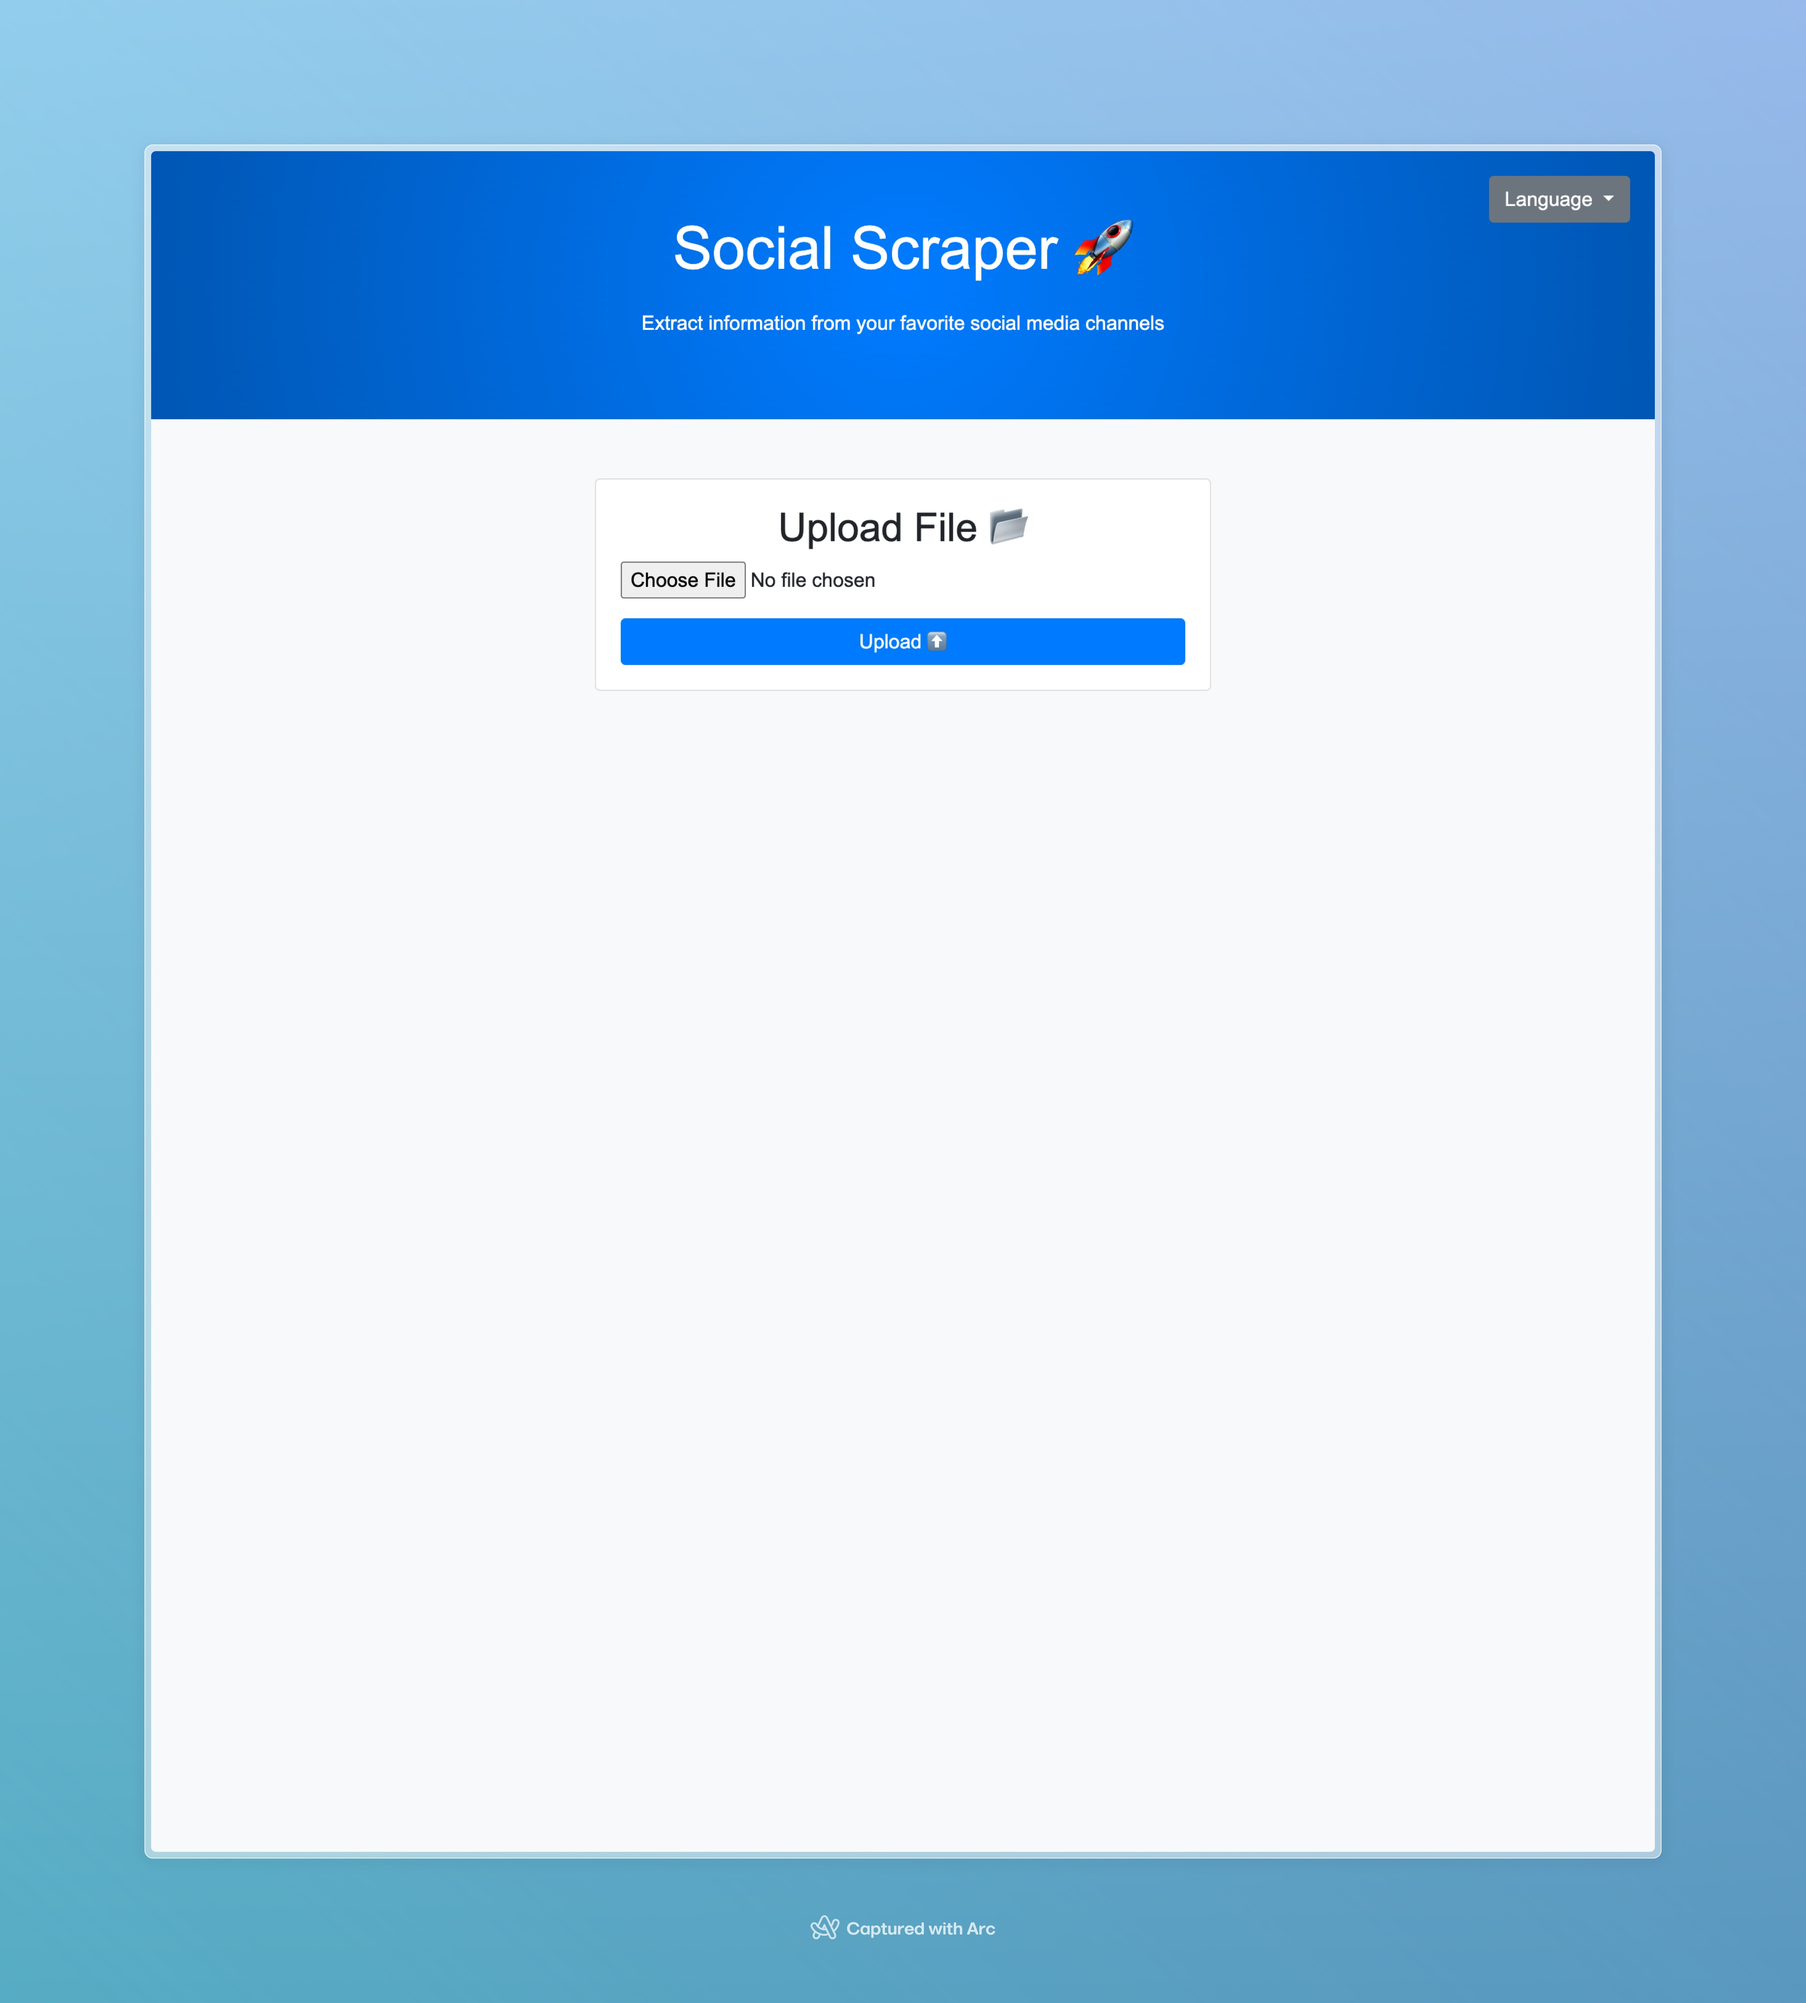
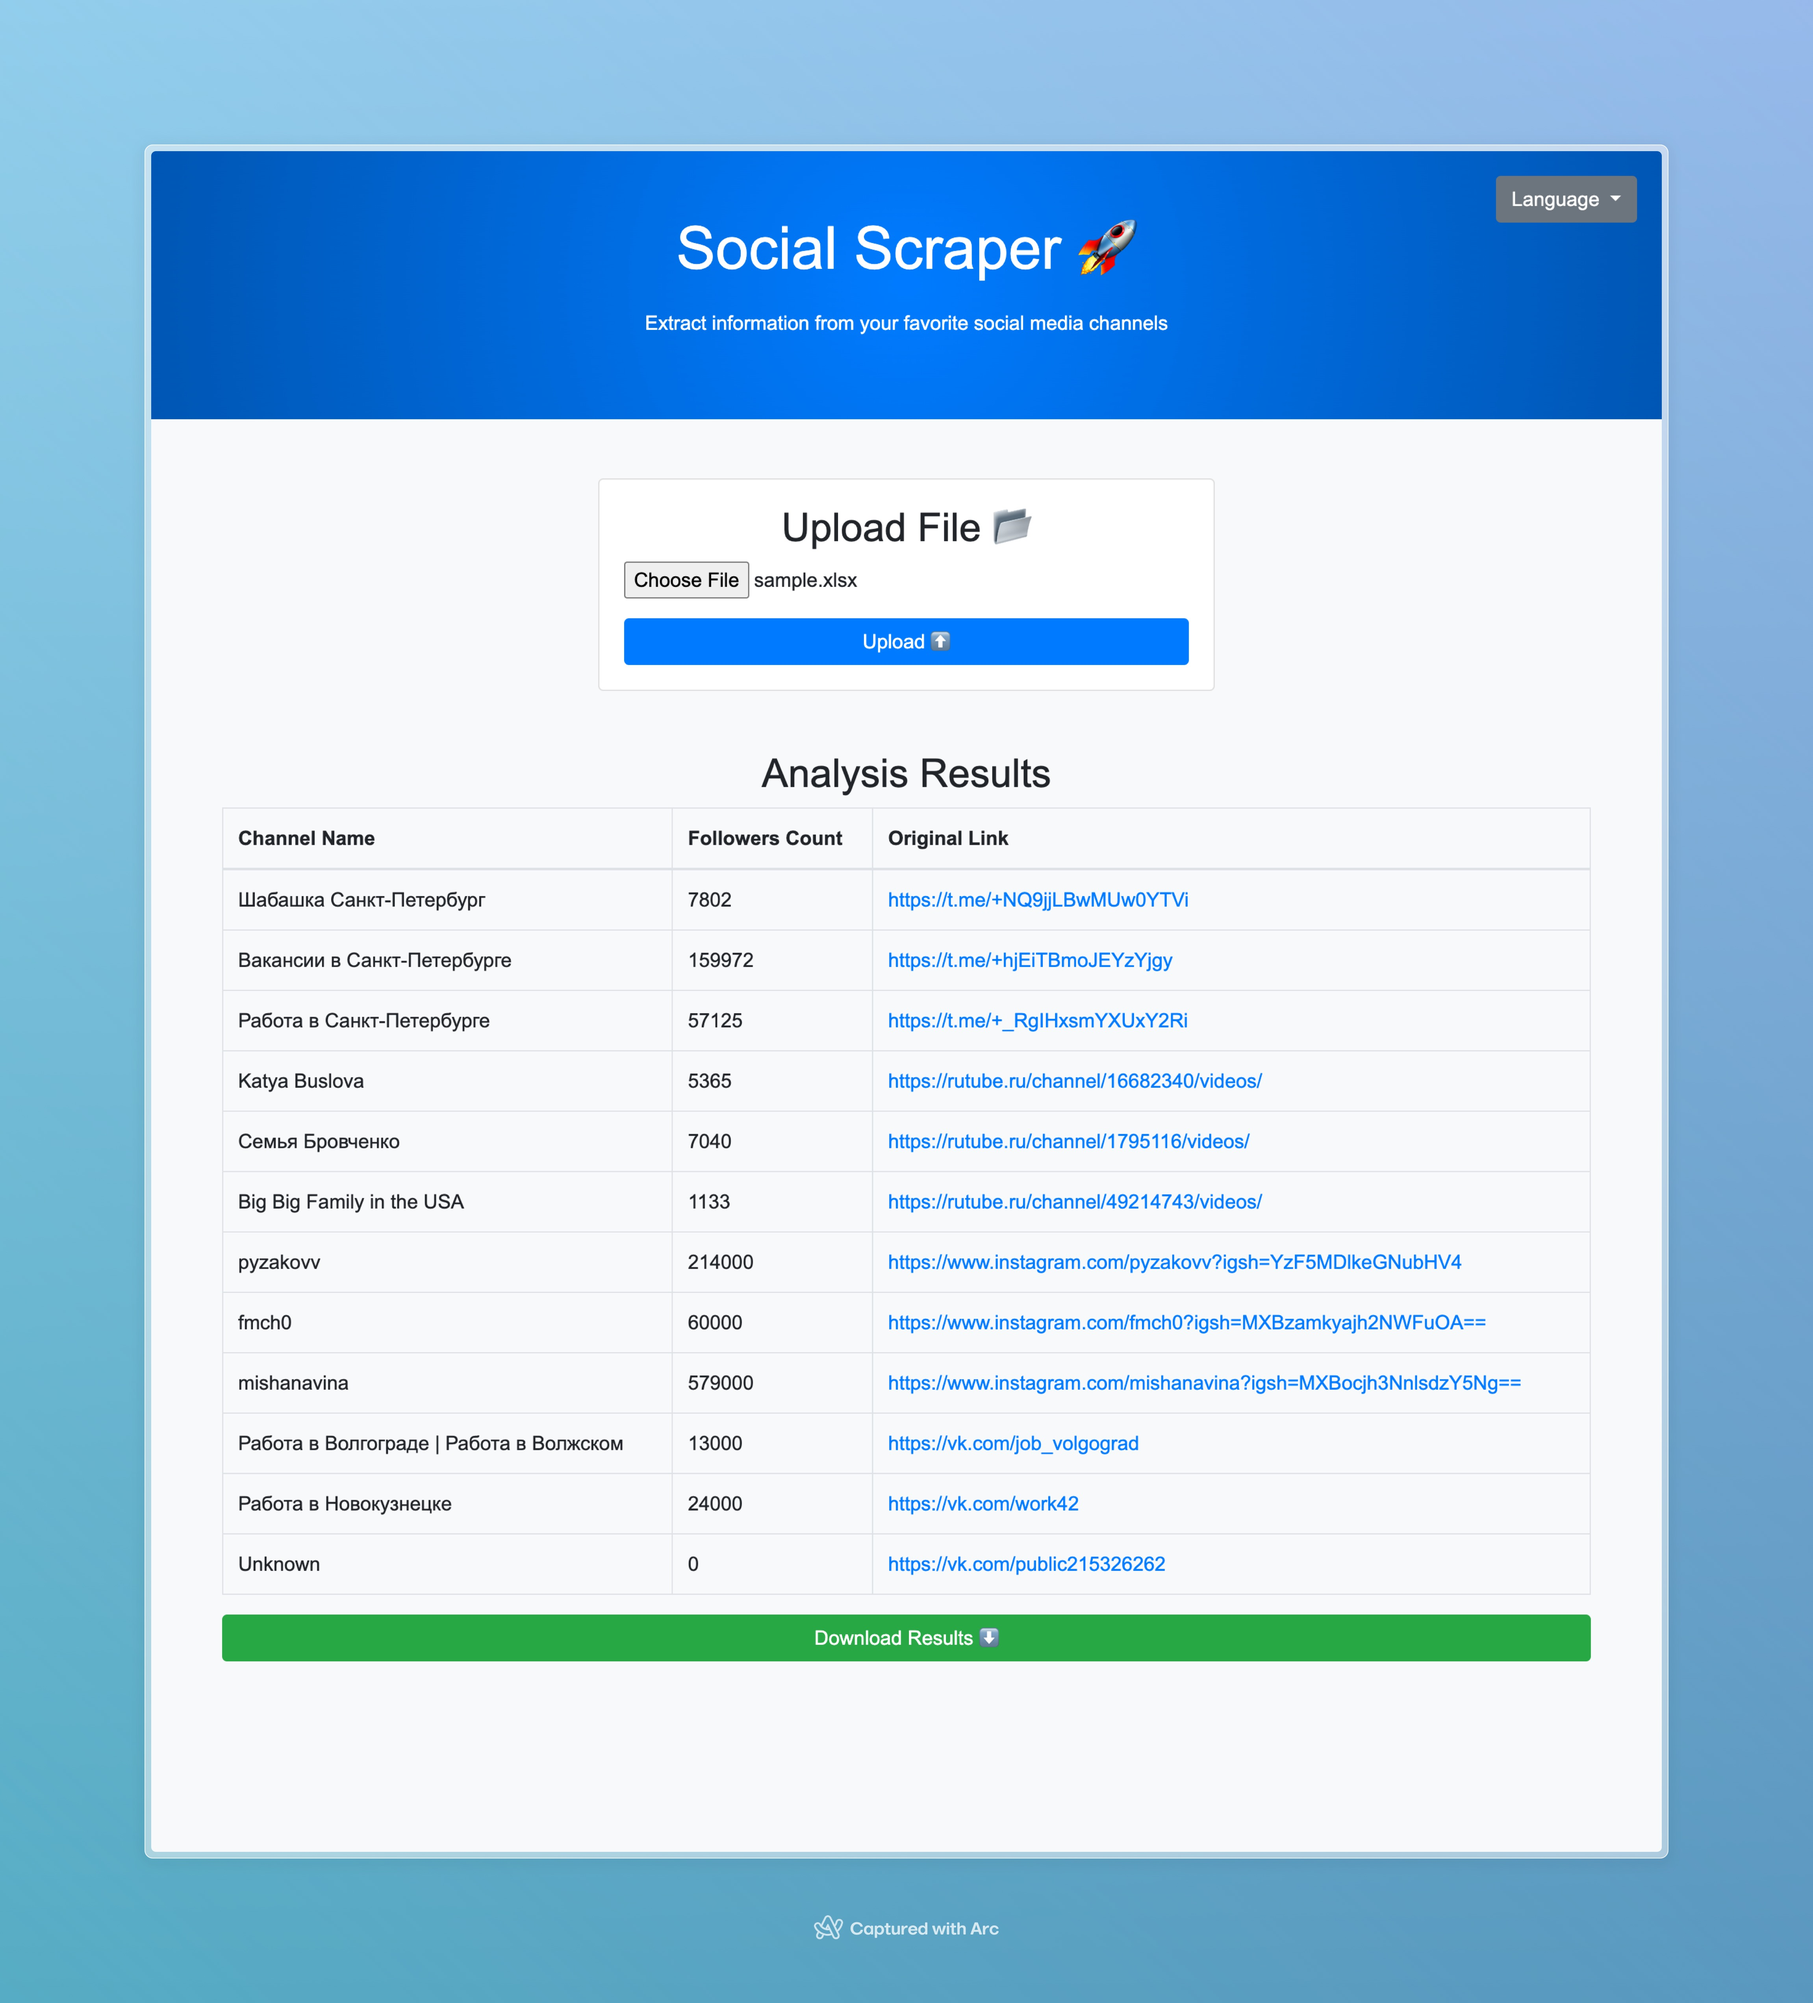
update for show results

diff --git a/public/index.html b/public/index.html
@@ -82,6 +82,24 @@
 		</div>
 	</div>
 
+	<!-- Add this section to display the results -->
+	<div class="container mt-5" id="resultsContainer" style="display: none;">
+		<h2 class="text-center" id="resultsTitle">Analysis Results</h2>
+		<table class="table table-bordered" id="resultsTable">
+			<thead>
+				<tr>
+					<th>Channel Name</th>
+					<th>Followers Count</th>
+					<th>Original Link</th>
+				</tr>
+			</thead>
+			<tbody id="resultsTableBody">
+				<!-- Results will be appended here -->
+			</tbody>
+		</table>
+		<button class="btn btn-success btn-block" id="downloadButton">Download Results ⬇</button>
+	</div>
+
 	<script>
 		const translations = {
 			en: {
@@ -90,7 +108,10 @@
 				uploadTitle: "Upload File 📂",
 				uploadButton: "Upload ⬆",
 				loaderText: "Processing your file... ⏳",
-				languageLabel: "Language"
+				languageLabel: "Language",
+				resultsTitle: "Analysis Results",
+				downloadButton: "Download Results ⬇",
+				headers: ["Channel Name", "Followers Count", "Original Link"]
 			},
 			es: {
 				title: "Extractor Social 🚀",
@@ -98,7 +119,10 @@
 				uploadTitle: "Subir Archivo 📂",
 				uploadButton: "Subir ⬆",
 				loaderText: "Procesando tu archivo... ⏳",
-				languageLabel: "Idioma"
+				languageLabel: "Idioma",
+				resultsTitle: "Resultados del Análisis",
+				downloadButton: "Descargar Resultados ⬇",
+				headers: ["Nombre del Canal", "Cantidad de Seguidores", "Enlace Original"]
 			},
 			ru: {
 				title: "Социальный Скрапер 🚀",
@@ -106,7 +130,10 @@
 				uploadTitle: "Загрузить файл 📂",
 				uploadButton: "Загрузить ⬆",
 				loaderText: "Обработка вашего файла... ⏳",
-				languageLabel: "Язык"
+				languageLabel: "Язык",
+				resultsTitle: "Результаты анализа",
+				downloadButton: "Скачать результаты ⬇",
+				headers: ["Название канала", "Количество подписчиков", "Оригинальная ссылка"]
 			}
 		};
 
@@ -118,6 +145,13 @@
 			document.getElementById('uploadButton').innerText = elements.uploadButton;
 			document.getElementById('loaderText').innerText = elements.loaderText;
 			document.getElementById('languageLabel').innerText = elements.languageLabel;
+			document.getElementById('resultsTitle').innerText = elements.resultsTitle;
+			document.getElementById('downloadButton').innerText = elements.downloadButton;
+
+			const headers = document.querySelectorAll('#resultsTable thead th');
+			headers.forEach((header, index) => {
+				header.innerText = elements.headers[index];
+			});
 		}
 
 		document.getElementById('uploadForm').addEventListener('submit', function(event) {
@@ -131,22 +165,35 @@
 				method: 'POST',
 				body: formData
 			})
-			.then(response => response.blob())
-			.then(blob => {
-				var url = window.URL.createObjectURL(blob);
-				var a = document.createElement('a');
-				a.style.display = 'none';
-				a.href = url;
-				a.download = 'channels_followers.xlsx';
-				document.body.appendChild(a);
-				a.click();
-				window.URL.revokeObjectURL(url);
+			.then(response => response.json())
+			.then(data => {
 				document.getElementById('loader').style.display = 'none';
+				document.getElementById('resultsContainer').style.display = 'block';
+
+				const resultsTableBody = document.getElementById('resultsTableBody');
+				resultsTableBody.innerHTML = '';
+
+				// remove the first row (header)
+				data.results.shift();
+
+				data.results.forEach(result => {
+					const row = document.createElement('tr');
+					row.innerHTML = `
+						<td>${result[0]}</td>
+						<td>${result[1]}</td>
+						<td><a href="${result[2]}" target="_blank">${result[2]}</a></td>
+					`;
+					resultsTableBody.appendChild(row);
+				});
 			})
 			.catch(() => {
 				alert('There was an error processing your file.');
 				document.getElementById('loader').style.display = 'none';
 			});
+		});
+
+		document.getElementById('downloadButton').addEventListener('click', function() {
+			window.location.href = '/download';
 		});
 	</script>
 	<script src="https://code.jquery.com/jquery-3.6.0.min.js"></script>

diff --git a/cmd/http/main.go b/cmd/http/main.go
@@ -43,22 +43,22 @@ func main() {
 
 		// Initialize and run app
 		application := app.NewApp(fm, telegramExtractor, rutubeExtractor, vkExtractor, instagramExtractor)
-		application.Run(inputFile, outputFile)
-
-		// Download the output file
-		if err := c.Download(outputFile); err != nil {
-			return err
-		}
+		results := application.Run(inputFile, outputFile)
 
 		// Delete the temp files
 		if err := os.Remove(inputFile); err != nil {
 			log.Printf("Failed to delete temp file %s: %v", inputFile, err)
 		}
-		if err := os.Remove(outputFile); err != nil {
-			log.Printf("Failed to delete temp file %s: %v", outputFile, err)
-		}
 
-		return nil
+		return c.JSON(fiber.Map{
+			"results": results,
+		})
+	})
+
+	// Add a new endpoint to serve the results as a downloadable file
+	fiberApp.Get("/download", func(c *fiber.Ctx) error {
+		outputFile := "channels_followers.xlsx"
+		return c.Download(outputFile)
 	})
 
 	log.Fatal(fiberApp.Listen(":3000"))

diff --git a/app/app.go b/app/app.go
@@ -24,7 +24,7 @@ func NewApp(fm filemanager.FileManager, extractors ...extractor.StatisticExtract
 }
 
 // Run processes the input file and generates the output file
-func (a *App) Run(inputFile string, outputFile string) {
+func (a *App) Run(inputFile string, outputFile string) [][]string {
 	// Read links from input file
 	links := a.fileManager.ReadLinksFromExcel(inputFile)
 
@@ -61,7 +61,7 @@ func (a *App) Run(inputFile string, outputFile string) {
 				}
 			}
 
-			 // Store the result at the correct index
+			// Store the result at the correct index
 			orderedResults[i+1] = []string{info.ChannelName, info.FollowersCount, info.OriginalLink}
 
 			// Avoid hitting rate limits
@@ -76,4 +76,6 @@ func (a *App) Run(inputFile string, outputFile string) {
 	a.fileManager.SaveResultsToExcel(orderedResults, outputFile)
 
 	fmt.Printf("\nSuccess! Results saved to %s\n", outputFile)
+
+	return orderedResults
 }
